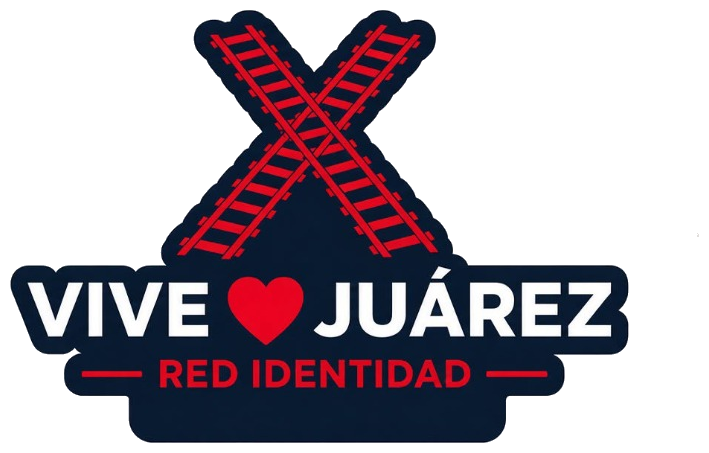
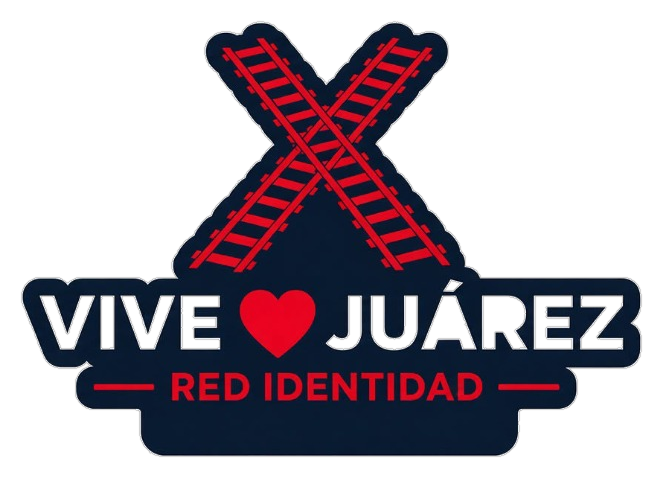
fix(juarez): corregir foto en auto y agregar borde troquelado blanco a distintivo oficial Vive Juarez para maximo contraste

Changed region(s): [[0.0, 0.0, 0.9653, 0.989]]

diff --git a/src/pages/Home.tsx b/src/pages/Home.tsx
@@ -703,18 +703,18 @@ const Home: React.FC = () => {
                 }}
               >
                 <img 
-                  src={isJuarez ? "/juarense_oficial.svg" : "/campechano_soy_coche.jpg"} 
-                  alt={isJuarez ? "Distintivo Oficial Vive Juárez (Plaza de la Mexicanidad)" : "Distintivo Oficial Campechano Soy (Puerta de Tierra)"} 
+                  src={isJuarez ? "/vive_juarez_auto.jpg" : "/campechano_soy_coche.jpg"} 
+                  alt={isJuarez ? "Distintivo Oficial Vive Juárez en Auto" : "Distintivo Oficial Campechano Soy (Puerta de Tierra)"} 
                   style={{
                     width: '100%',
                     height: 'auto',
                     maxHeight: '260px',
-                    objectFit: isJuarez ? 'contain' : 'cover',
+                    objectFit: 'cover',
                     borderRadius: '16px',
                     border: '1px solid rgba(212,175,55,0.4)',
                     boxShadow: '0 8px 24px rgba(0, 0, 0, 0.6)',
                     display: 'block',
-                    padding: isJuarez ? '1rem' : 0
+                    padding: 0
                   }}
                 />
                 <div style={{
@@ -776,7 +776,7 @@ const Home: React.FC = () => {
                       <img 
                         src="/vive_juarez_oficial.png" 
                         alt="Vive Juárez Distintivo Oficial" 
-                        style={{ maxWidth: '100%', maxHeight: '100%', objectFit: 'contain', filter: 'drop-shadow(0 2px 10px rgba(220,38,38,0.5))' }} 
+                        style={{ maxWidth: '100%', maxHeight: '100%', objectFit: 'contain', filter: 'drop-shadow(0 0 8px rgba(255,255,255,0.3)) drop-shadow(0 2px 12px rgba(220,38,38,0.5))' }} 
                       />
                     </div>
                     <div style={{ textAlign: 'left', flex: 1 }}>

diff --git a/src/pages/LandingJuarez.tsx b/src/pages/LandingJuarez.tsx
@@ -445,7 +445,7 @@ export const LandingJuarez: React.FC = () => {
               >
                 {/* Insignia Principal de la X de Juárez */}
                 <div style={{
-                  background: 'radial-gradient(circle, rgba(35, 35, 42, 0.9) 0%, rgba(18, 18, 22, 1) 100%)',
+                  background: 'radial-gradient(circle at center, rgba(220, 38, 38, 0.15) 0%, rgba(30, 30, 38, 0.9) 55%, rgba(15, 15, 18, 0.98) 100%)',
                   borderRadius: '16px',
                   padding: '2.5rem 1.5rem',
                   display: 'flex',
@@ -453,9 +453,10 @@ export const LandingJuarez: React.FC = () => {
                   alignItems: 'center',
                   justifyContent: 'center',
                   minHeight: '260px',
-                  border: '1px solid rgba(255, 255, 255, 0.08)',
+                  border: '1px solid rgba(255, 255, 255, 0.12)',
                   marginBottom: '1.2rem',
-                  position: 'relative'
+                  position: 'relative',
+                  boxShadow: 'inset 0 0 40px rgba(220, 38, 38, 0.1)'
                 }}>
                   <div style={{
                     position: 'absolute',
@@ -484,7 +485,7 @@ export const LandingJuarez: React.FC = () => {
                       maxHeight: '190px',
                       maxWidth: '100%',
                       objectFit: 'contain',
-                      filter: 'drop-shadow(0 6px 20px rgba(220,38,38,0.45))'
+                      filter: 'drop-shadow(0 0 12px rgba(255,255,255,0.3)) drop-shadow(0 8px 25px rgba(220,38,38,0.5))'
                     }}
                   />
 

diff --git a/src/components/BuyStickerModal.tsx b/src/components/BuyStickerModal.tsx
@@ -355,7 +355,7 @@ export const BuyStickerModal: React.FC<BuyStickerModalProps> = ({ isOpen, onClos
                           <img 
                             src="/vive_juarez_oficial.png" 
                             alt="Vive Juárez Distintivo Oficial" 
-                            style={{ maxWidth: '100%', maxHeight: '100%', objectFit: 'contain' }}
+                            style={{ maxWidth: '100%', maxHeight: '100%', objectFit: 'contain', filter: 'drop-shadow(0 0 6px rgba(255,255,255,0.3)) drop-shadow(0 2px 10px rgba(220,38,38,0.4))' }} 
                           />
                         </div>
                         <div style={{ flex: 1 }}>
